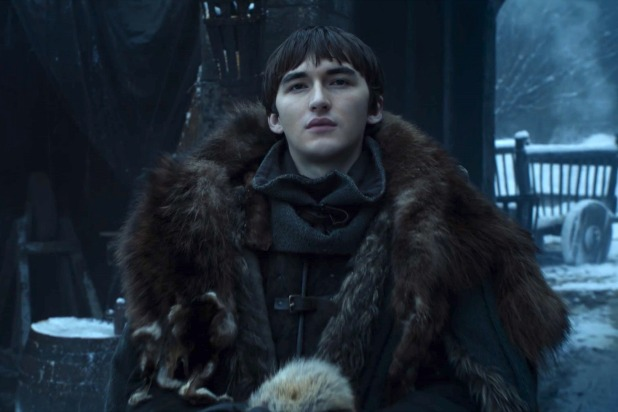
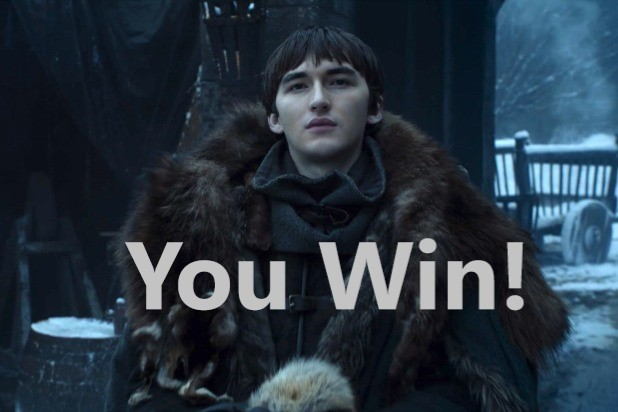
added win message to bran image and got function to call when grid is cleared

Changed region(s): [[0.4919, 0.5825, 0.8608, 0.7573], [0.1845, 0.5825, 0.4612, 0.7573]]

diff --git a/script.js b/script.js
@@ -66,9 +66,9 @@ let userPicks = 0;  //declares a variable to try user choices, sets it at 0
 let card1 = null;
 let card2 = null;
 let delay = 1200;  //delay before flipping cards or removing
-let endGame = []; //array to keep track of matches for endGame function
+let endGame = document.getElementsByClassName("matched"); //array to keep track of matches for endGame function
 let winImage = document.getElementById("bran_popup");
-gameOver();
+
 grid.addEventListener("click", function (event) {
     let clicked = event.target;
     if (clicked.parentNode.classList.contains("choice") || clicked === clicked.parentNode.classList.contains("clickedOn") || clicked === clicked.nextSibling.classList.contains("matched")) {  //add class for choice with click, this line makes it so if they click the same card it doesn't count as a choice
@@ -88,9 +88,9 @@ grid.addEventListener("click", function (event) {
             setTimeout(resetPicks, delay);    //calls reset picks function and calls a delay before flipping back
         } else if (userPicks === 2 && card1 === card2) { // tests if user picks 2 card and they match
             setTimeout(matchedPicks, delay);
-            // return;
         }
-    }
+    } 
+    
 });
 
 
@@ -103,6 +103,7 @@ const resetPicks = () => {
     choices.forEach(card => {  //calls array and for each item does below actions
         card.classList.remove("choice");  //removes the choice class add when card was clicked
         card.parentNode.classList.remove("clickedOn");
+        gameOver();
     })
 }
 const matchedPicks = () => {
@@ -110,7 +111,7 @@ const matchedPicks = () => {
     choices.forEach(card => {
         card.classList.remove("choice");
         card.classList.add("matched");
-        endGame.push(choices);
+        gameOver();
     })
     card1 = null;
     card2 = null;
@@ -118,7 +119,7 @@ const matchedPicks = () => {
 }
 //function that calls game over image overlay
 function gameOver() {
-    if (endGame.length === 20) {
+    if (endGame.length == "20") {
         winImage.classList.add("show");
     }
 }
